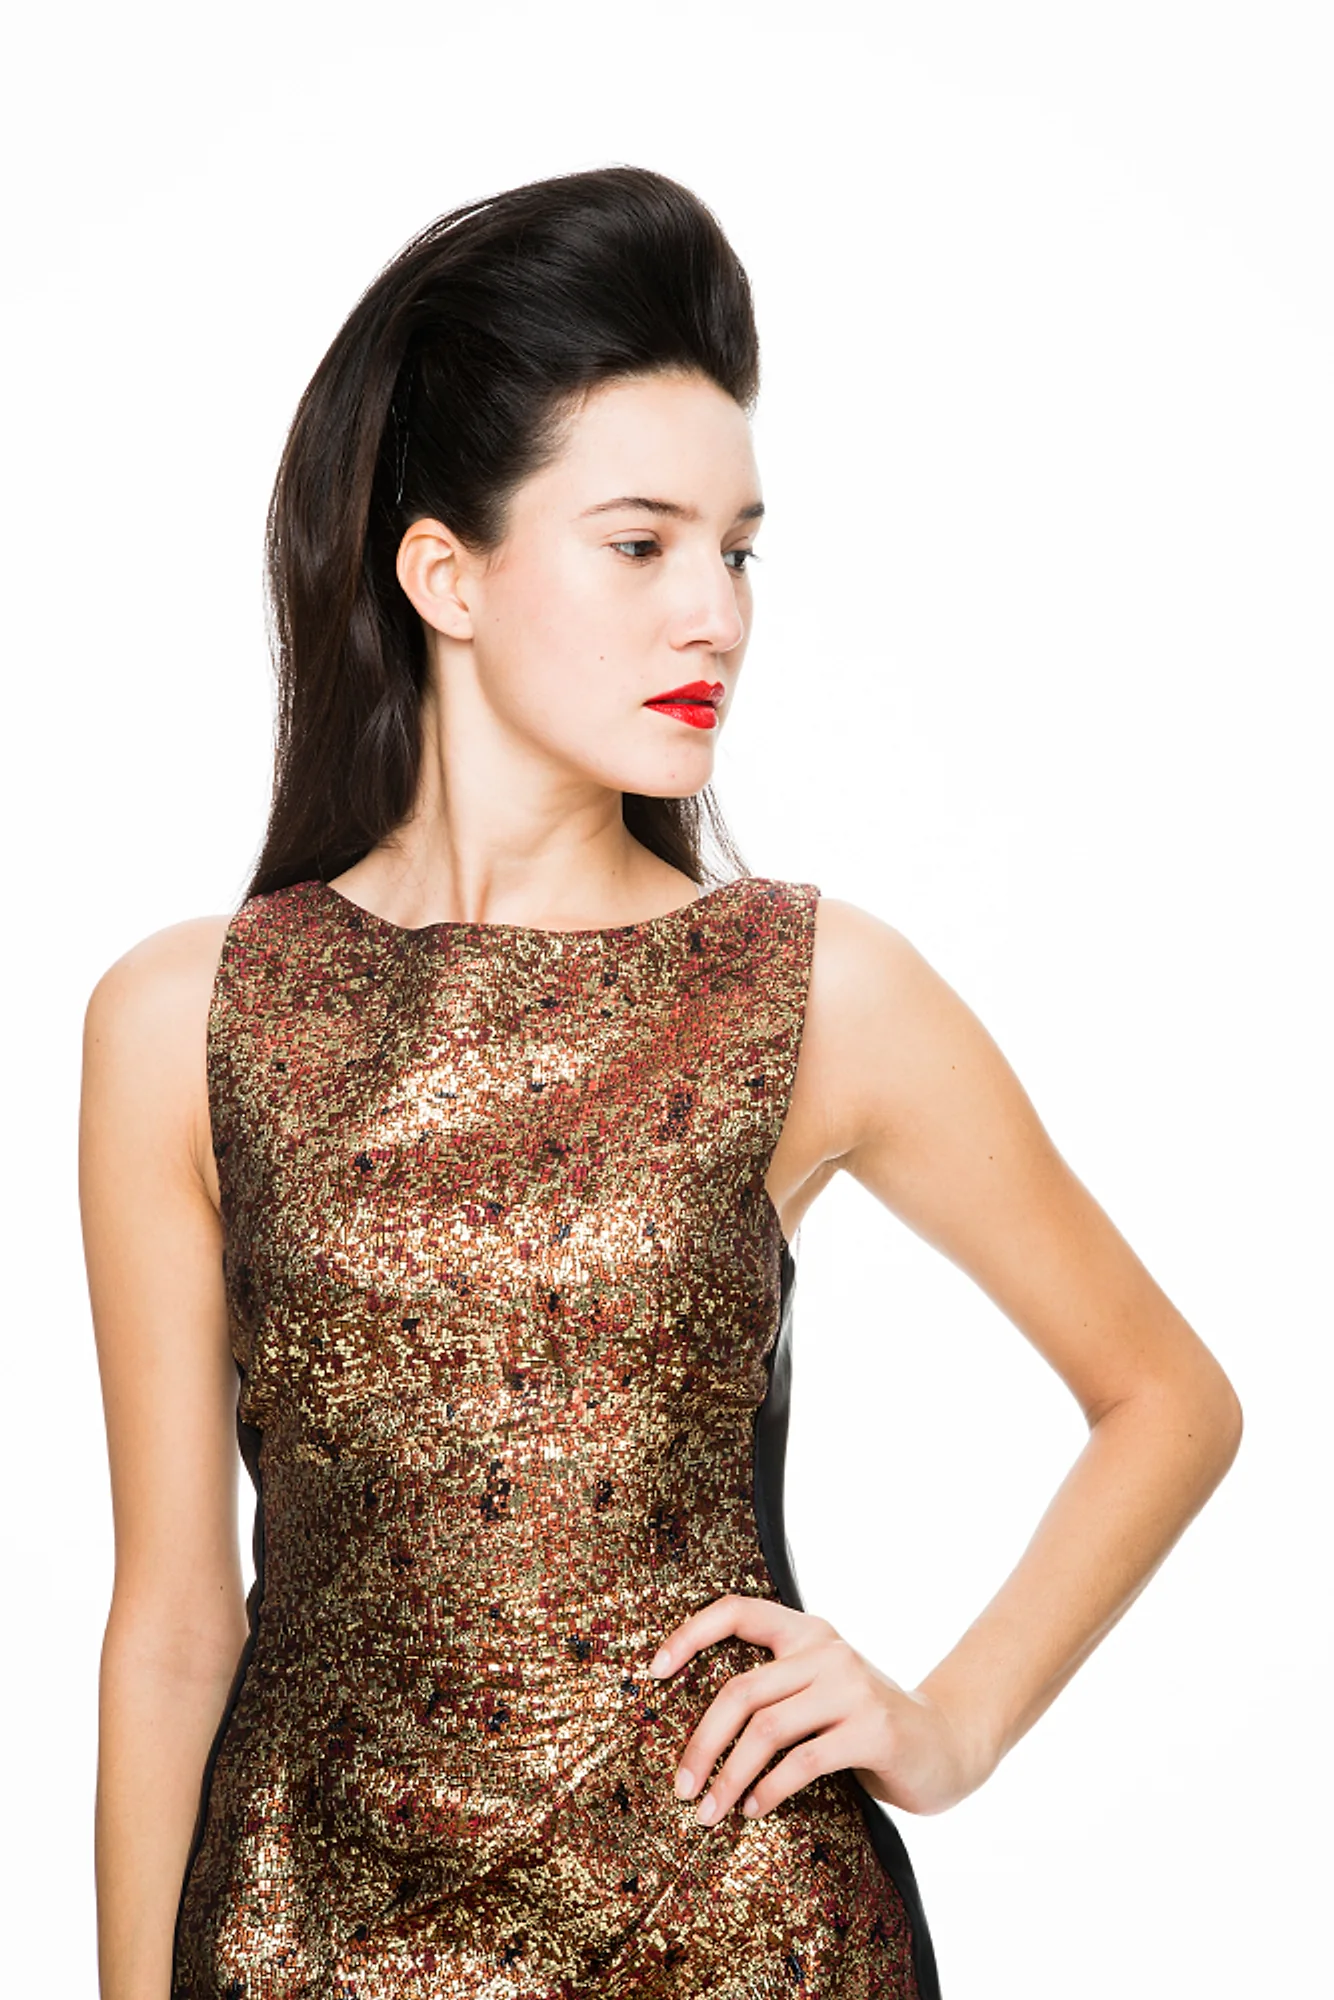
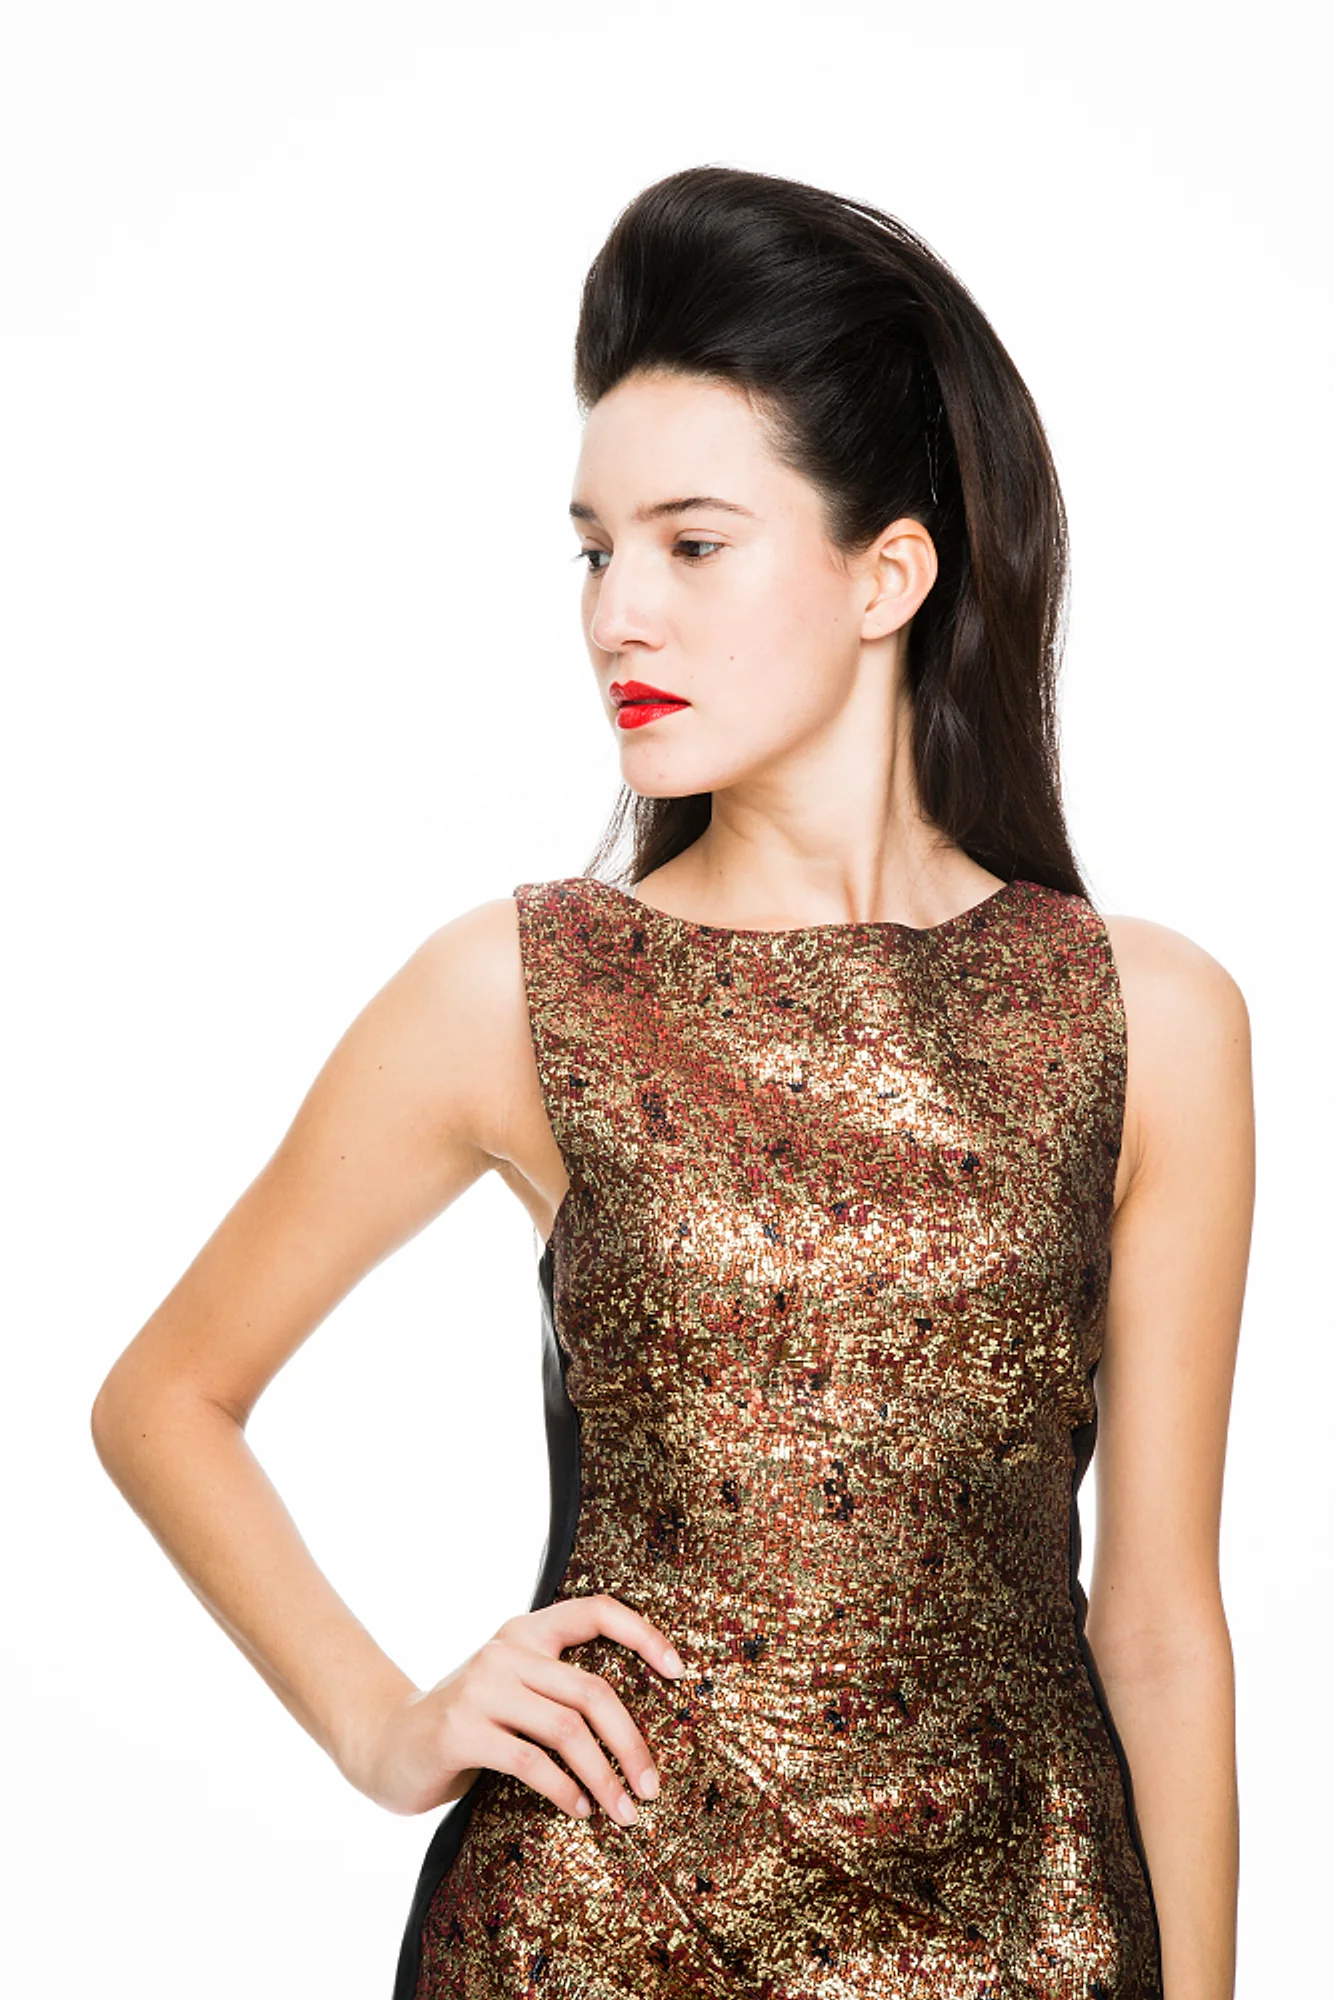
Hero: mirror the portrait, close the mobile gap, fade the band
Mirrored. She was looking off the right edge of the page, away from every word
on it; she now looks into the copy. Nothing in the frame is text or otherwise
handed, so a horizontal flip breaks nothing.

Mobile band goes 46vh to 54vh, which removes the dead strip that sat between
the picture and the headline, and the scrim now runs downward and dissolves the
bottom edge into the page instead of ending on a hard horizontal line. Desktop
keeps its left-to-right fade but stops at 44% instead of 58%: any further and
it veiled her face, which is the half of the frame worth showing.

The white studio sweep is still there. Replacing it locally was attempted and
abandoned: the backdrop is separable by flooding in from the frame edge, but
her skin is bright enough to connect to it, so the fill leaked through and ate
her face. That one needs a real matte, which means AI or a masked edit.

diff --git a/src/components/Hero.tsx b/src/components/Hero.tsx
@@ -36,7 +36,7 @@ export function Hero() {
   return (
     <section
       id="top"
-      className="relative flex min-h-[100dvh] flex-col justify-end overflow-hidden pt-24 pb-14 md:justify-center md:pb-24"
+      className="relative flex min-h-[100dvh] flex-col justify-end overflow-hidden pt-24 pb-16 md:justify-center md:pt-24 md:pb-24"
     >
       <div className="shell grid w-full items-center gap-y-10 md:grid-cols-12 md:gap-x-10">
         <div className="relative z-10 md:col-span-7 lg:col-span-6">
@@ -94,7 +94,7 @@ export function Hero() {
         initial={reduce ? false : { opacity: 0, scale: 1.06 }}
         animate={{ opacity: 1, scale: 1 }}
         transition={{ duration: 1.4, ease: EASE_OUT }}
-        className="pointer-events-none absolute inset-x-0 top-0 -z-0 h-[46vh] md:inset-y-0 md:left-auto md:h-auto md:w-[46vw] lg:w-[42vw]"
+        className="pointer-events-none absolute inset-x-0 top-0 -z-0 h-[54vh] md:inset-y-0 md:left-auto md:h-auto md:w-[46vw] lg:w-[42vw]"
       >
         <img
           src="/img/hero-editorial.webp"
@@ -103,12 +103,23 @@ export function Hero() {
           height={2000}
           fetchPriority="high"
           decoding="async"
-          className="size-full object-cover object-[54%_16%] md:object-[58%_20%]"
+          className="size-full object-cover object-[46%_18%] md:object-[42%_22%]"
         />
-        {/* Gradient scrim so the type stays legible where it overlaps. */}
+        {/* The scrim runs in different directions at the two sizes, because the
+            picture sits in different places.
+
+            Desktop: it is a column on the right, so the fade comes in from the
+            left and gives the headline ground to stand on. It stops at 44%
+            rather than 58%; any further and it veils her face, which is the
+            half of the frame worth showing.
+
+            Mobile: it is a band across the top, so the fade runs downward and
+            dissolves the bottom edge into the page. Without it the band ends on
+            a hard horizontal line, which is the single thing that makes a
+            full-width photograph look pasted on rather than part of the page. */}
         <div
           aria-hidden="true"
-          className="absolute inset-0 bg-gradient-to-b from-canvas from-0% via-canvas/45 via-30% to-transparent to-72% md:bg-gradient-to-r md:from-canvas md:from-0% md:via-canvas/40 md:via-22% md:to-transparent md:to-58%"
+          className="absolute inset-0 bg-gradient-to-b from-transparent from-22% via-canvas/55 via-72% to-canvas to-97% md:bg-gradient-to-r md:from-canvas md:from-0% md:via-canvas/35 md:via-13% md:to-transparent md:to-44%"
         />
 
         {/* Second scrim, top down, for the header rather than the headline.
